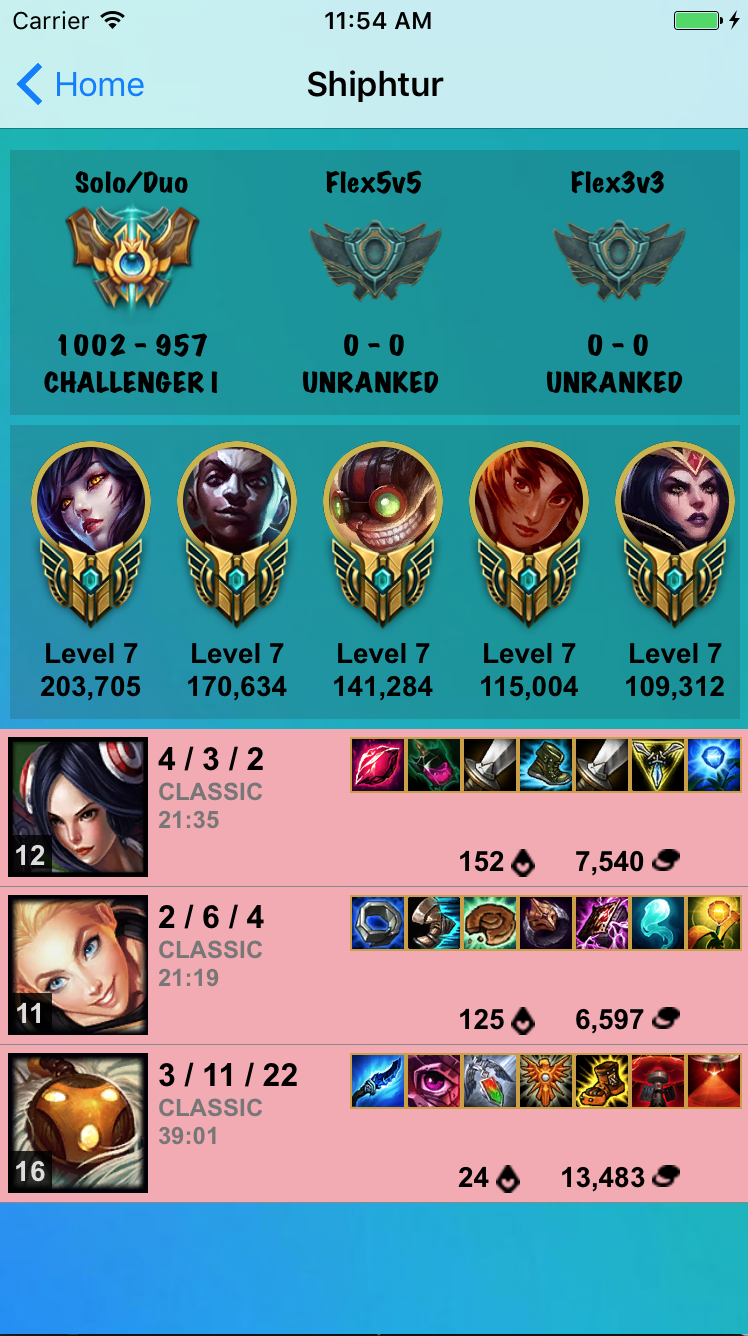
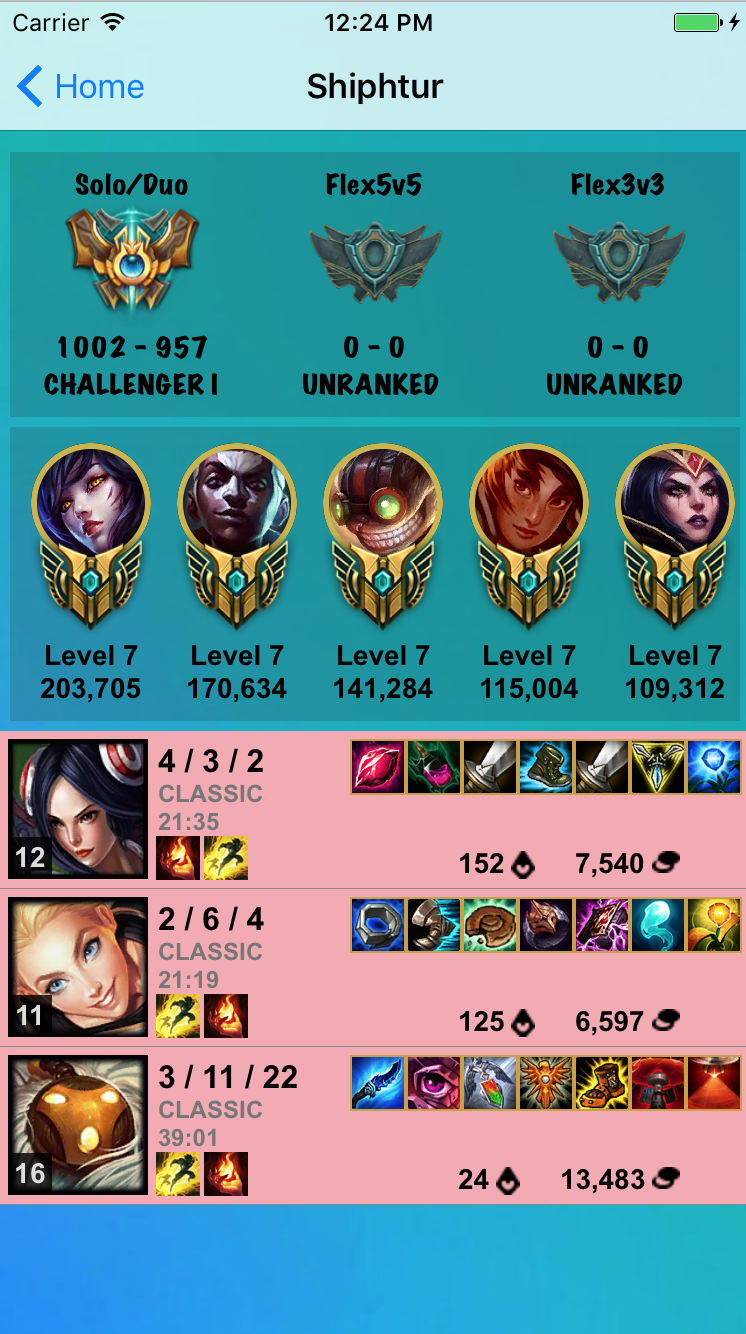
Readme

Changed region(s): [[0.0, 0.0, 1.0, 0.922], [0.8941, 0.0, 0.9866, 0.0307]]

diff --git a/app/controllers/api_controller.rb b/app/controllers/api_controller.rb
@@ -75,8 +75,8 @@ class ApiController < ApplicationController
 
   def findSummonerSpells(participant)
     summoner_spells = []
-    summoner_spells.push(Api::SUMMONER_SPELLS_MAP.select { |x| x[:id] == participant['spell1Id'] }[0]['key'])
-    summoner_spells.push(Api::SUMMONER_SPELLS_MAP.select { |x| x[:id] == participant['spell2Id'] }[0]['key'])
+    summoner_spells.push(Api::SUMMONER_SPELLS_MAP.select { |x| x[:id] == participant['spell1Id'] }[0][:key])
+    summoner_spells.push(Api::SUMMONER_SPELLS_MAP.select { |x| x[:id] == participant['spell2Id'] }[0][:key])
     return summoner_spells
   end
 
